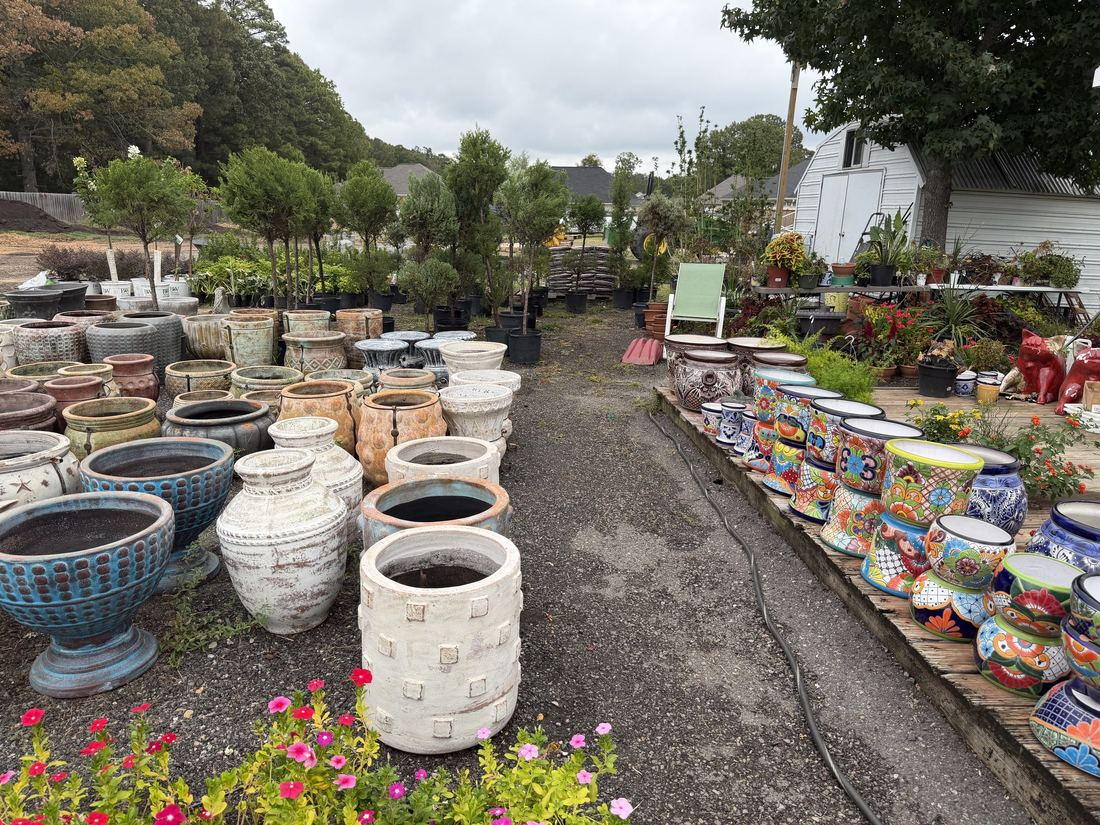
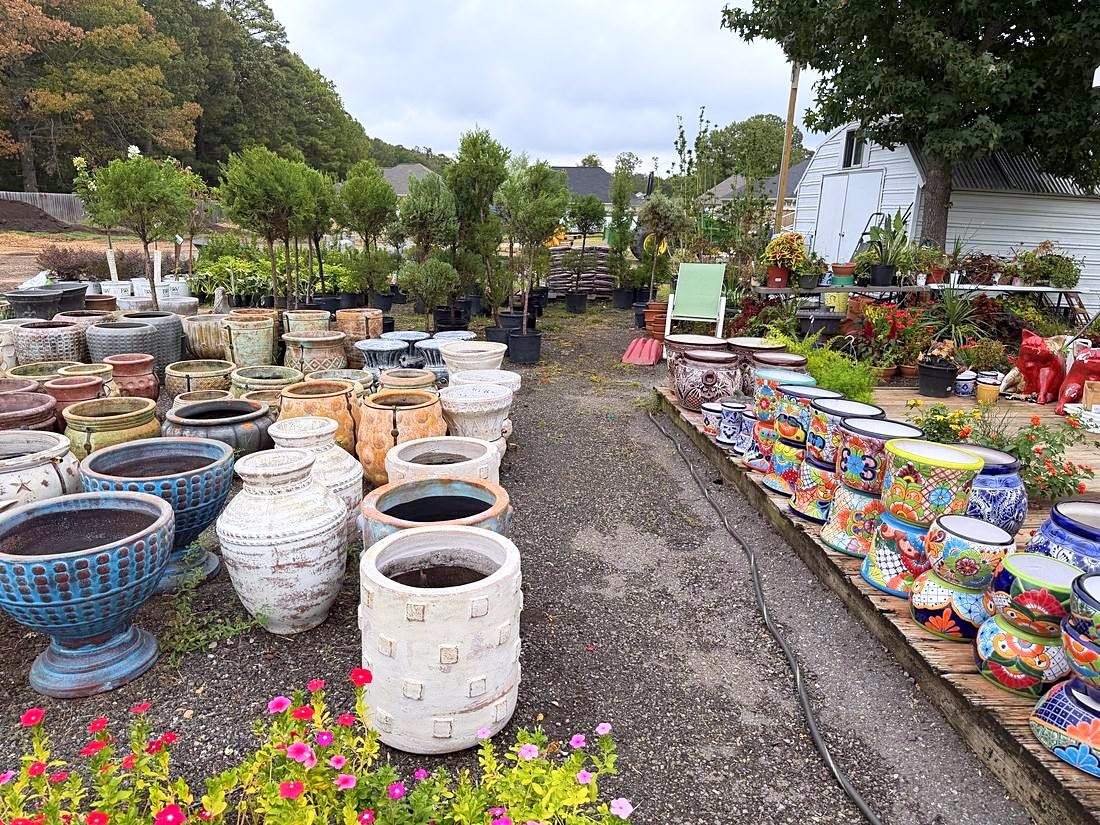
Pottery page photos brightened; plants page step 3 and success copy
Eight photos on the Pottery and Garden Decor page get a brighter, warmer,
more colorful grade (same crops). Plants page: step 3 reads "Plant it",
and the success section is longer and sunnier.

diff --git a/garden-center/plants-shrubs-trees/index.html b/garden-center/plants-shrubs-trees/index.html
@@ -612,7 +612,7 @@ figcaption { margin-top: var(--space-2); font-size: 15px; line-height: 1.45; col
       <ol class="steps">
         <li><span class="ic-badge"><svg class="ic" aria-hidden="true"><use href="#i-store"/></svg></span><span class="step-n" aria-hidden="true">1</span><h3>Come visit</h3><p>Stop by the lot at 7901 Dollarway Road in White Hall. Someone will greet you on the way in.</p></li>
         <li><span class="ic-badge"><svg class="ic" aria-hidden="true"><use href="#i-sun"/></svg></span><span class="step-n" aria-hidden="true">2</span><h3>Describe the spot</h3><p>Say how much sun it has, or show a photo, and someone will lay out a few plants that will live there.</p></li>
-        <li><span class="ic-badge"><svg class="ic" aria-hidden="true"><use href="#i-shovel"/></svg></span><span class="step-n" aria-hidden="true">3</span><h3>Plant it, or have it planted</h3><p>Take your plants home, or have Amanda's crew plant them for you.</p></li>
+        <li><span class="ic-badge"><svg class="ic" aria-hidden="true"><use href="#i-shovel"/></svg></span><span class="step-n" aria-hidden="true">3</span><h3>Plant it</h3><p>Take your plants home, or have Amanda's crew plant them for you.</p></li>
       </ol>
       <div class="btn-row">
       <a class="btn btn--primary" href="../../contact/#directions">Visit the garden center</a>
@@ -629,7 +629,9 @@ figcaption { margin-top: var(--space-2); font-size: 15px; line-height: 1.45; col
       <h2>A yard that fills in a little more every year</h2>
       <div class="prose" style="margin-top: var(--space-6)">
         <p>Picture a Japanese maple turning red by the front walk, a row of cypress along the drive, and beds that are still green in August. Every plant was chosen for the light it has, so the yard keeps growing.</p>
-        <p>Without that match, too many yards stay stuck: bare beds, a dead shrub pulled every spring, and money spent on plants that never had a chance.</p>
+        <p>Each spring the yard has a little more to show. Shrubs fill out the space they were planted for, the evergreens hold their color through winter, and pansies and mums brighten the beds when the summer flowers fade.</p>
+        <p>Before long the front yard is the first thing friends mention when they visit, and the back porch is the favorite seat on a warm evening.</p>
+        <p>Choosing for the light from the start is what keeps a yard growing year after year, with fewer plants to replace each spring.</p>
       </div>
     </div>
     <figure class="split-media">

diff --git a/tools/build-pages.py b/tools/build-pages.py
@@ -424,13 +424,15 @@ PAGES["garden-center/plants-shrubs-trees"] = dict(
             ("plan-fall-planters-amandas-villa.jpg", "Potted lantana, pansies, ornamental kale and peppers ready to take home at Amanda's Villa Garden Center", 1500, 643),
             [("store", "Come visit", "Stop by the lot at 7901 Dollarway Road in White Hall. Someone will greet you on the way in."),
              ("sun", "Describe the spot", "Say how much sun it has, or show a photo, and someone will lay out a few plants that will live there."),
-             ("shovel", "Plant it, or have it planted", "Take your plants home, or have Amanda's crew plant them for you.")],
+             ("shovel", "Plant it", "Take your plants home, or have Amanda's crew plant them for you.")],
             VISIT),
         split_prose(
             "SUCCESS AND FAILURE",
             "A yard that fills in a little more every year",
             ["Picture a Japanese maple turning red by the front walk, a row of cypress along the drive, and beds that are still green in August. Every plant was chosen for the light it has, so the yard keeps growing.",
-             "Without that match, too many yards stay stuck: bare beds, a dead shrub pulled every spring, and money spent on plants that never had a chance."],
+             "Each spring the yard has a little more to show. Shrubs fill out the space they were planted for, the evergreens hold their color through winter, and pansies and mums brighten the beds when the summer flowers fade.",
+             "Before long the front yard is the first thing friends mention when they visit, and the back porch is the favorite seat on a warm evening.",
+             "Choosing for the light from the start is what keeps a yard growing year after year, with fewer plants to replace each spring."],
             ("landscaping/after-ranch-maple.jpg", "A Japanese maple in a new mulched bed in front of a ranch house, planted by Amanda's Villa", 1100, 825),
             alt=True, flip=False),
         split_prose(
